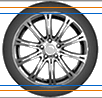
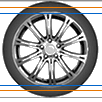
feat(images): make images being transparent

diff --git a/components/configurator/Item.js b/components/configurator/Item.js
@@ -18,8 +18,7 @@ export default function Item(props) {
             <Pressable onPress={() => dispatch(setSelectedItems(item))}>
                 <View style={[{...styles.item, backgroundColor: isSelected ? '#3264a8' : 'black'}]}>
                     <Layer />
-                    <View style={{width: 100, height: 100, backgroundColor: 'yellow', alignSelf: 'center'}}/>
-                    {/* <Image source={img} size={10}/> */}
+                    <Image source={img} style={styles.itemImage} />
                     <View>
                         <Text style={[globalStyles.text, styles.itemText]}>{name}</Text>
                         <Text style={[globalStyles.text, styles.itemText]}> 
@@ -46,5 +45,9 @@ const styles = StyleSheet.create({
     },
     itemText: {
         fontSize: 14,
+    },
+    itemImage: {
+        width: 100,
+        height: 100,
     }
 })

diff --git a/components/configurator/steps/Accessories.js b/components/configurator/steps/Accessories.js
@@ -2,9 +2,9 @@ import React, { useState } from 'react';
 import uuid from 'react-native-uuid';
 import I18n from '~/lang/i18n';
 
-import LED from "~/assets/images/accessories/LED.jpg"
-import soundSystem from "~/assets/images/accessories/soundSystem.jpg"
-import sportsSuspension from "~/assets/images/accessories/sportsSuspension.jpg"
+import LED from "~/assets/images/accessories/LED.png"
+import soundSystem from "~/assets/images/accessories/soundSystem.png"
+import sportsSuspension from "~/assets/images/accessories/sportsSuspension.png"
 
 import Step from '~/components/configurator/Step';
 

diff --git a/components/configurator/steps/Engine.js b/components/configurator/steps/Engine.js
@@ -2,9 +2,9 @@ import React, { useState } from 'react';
 import uuid from 'react-native-uuid';
 import I18n from '~/lang/i18n';
 
-import engineHeat from "~/assets/images/engines/engineHeat.jpg"
-import engineCombustion from "~/assets/images/engines/engineCombustion.jpg"
-import engineIon from "~/assets/images/engines/engineIon.jpg"
+import engineHeat from "~/assets/images/engines/engineHeat.png"
+import engineCombustion from "~/assets/images/engines/engineCombustion.png"
+import engineIon from "~/assets/images/engines/engineIon.png"
 
 import Step from '~/components/configurator/Step';
 
